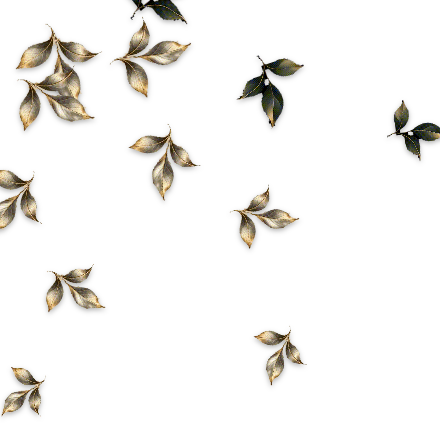
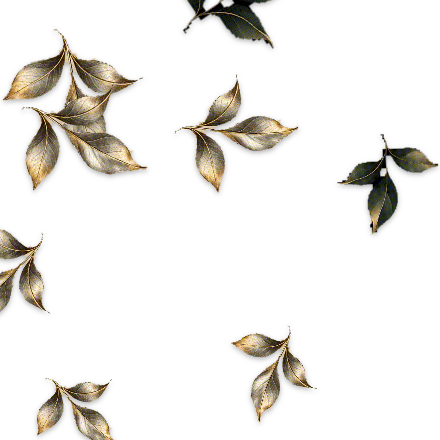
Larger leaves on branches, frame corners, garlands, footer vine and falling decoration

diff --git a/src/components/DecorFrame.jsx b/src/components/DecorFrame.jsx
@@ -14,10 +14,10 @@ function framePath(w, h, radii) {
 
 // A small leafy sprig drawn for the top-left corner; the other corners mirror it. Leaves unfurl one after another.
 const BLOOMS = [
-  { x: 8, y: 33, s: 22, v: 'gold', r: -40 },
-  { x: 14, y: 21, s: 26, v: 'olive', r: -5 },
-  { x: 26, y: 12, s: 24, v: 'gold', r: 35 },
-  { x: 40, y: 8, s: 20, v: 'olive', r: 65 },
+  { x: 8, y: 33, s: 32, v: 'gold', r: -40 },
+  { x: 14, y: 21, s: 38, v: 'olive', r: -5 },
+  { x: 26, y: 12, s: 34, v: 'gold', r: 35 },
+  { x: 40, y: 8, s: 30, v: 'olive', r: 65 },
 ];
 const MIRROR = { tl: 'none', tr: 'scaleX(-1)', br: 'scale(-1,-1)', bl: 'scaleY(-1)' };
 
@@ -119,7 +119,7 @@ export default function DecorFrame({ inset = 12, radii = [2, 2, 2, 2], corners =
       {big && corners.filter((c) => !flora.includes(c) && !floraSmall.includes(c)).map((c) => <Sprig key={`${c}-${replayKey}`} corner={c} size={size} offset={-6} on={on} delay={delay + 1.1} reduce={reduce} />)}
       {big && spots.slice(0, 26).map((p, i) => (
         <span key={`g${i}`} className="decor-garland" style={{ left: p.x, top: p.y, '--d': `${delay + 1.5 + i * 0.045}s` }}>
-          <span>{i % 3 === 2 ? <i className="decor-garland__dot" /> : <GarlandBlossom index={i} size={i % 2 ? 15 : 19} />}</span>
+          <span>{i % 3 === 2 ? <i className="decor-garland__dot" /> : <GarlandBlossom index={i} size={i % 2 ? 24 : 30} />}</span>
         </span>
       ))}
       {big && floraSmall.map((c) => <Flora key={`s${c}`} corner={c} size={floraSize * 0.64} offset={floraOffset} on={on} delay={delay + 1.35} />)}

diff --git a/src/components/Footer.jsx b/src/components/Footer.jsx
@@ -14,14 +14,14 @@ function Vine() {
       {VINE.map((l, i) => (
         <g key={i} transform={`translate(${l.x} ${l.up ? 14 : 30})`}>
           <motion.g style={{ transformBox: 'fill-box', transformOrigin: 'center' }} initial={{ scale: 0, rotate: -90 }} whileInView={{ scale: 1, rotate: 0 }} viewport={{ once: true, margin: '-40px' }} transition={{ type: 'spring', stiffness: 130, damping: 11, delay: 0.5 + i * 0.13 }}>
-            <Blossom variant={i % 2 ? 'gold' : 'olive'} size={22} x={-11} y={-11} />
+            <Blossom variant={i % 2 ? 'gold' : 'olive'} size={34} x={-17} y={-17} />
           </motion.g>
         </g>
       ))}
       {VINE.filter((_, i) => i % 2 === 1).map((l, i) => (
         <g key={`b${i}`} transform={`translate(${l.x + 40} ${l.up ? 22 : 24})`}>
           <motion.g style={{ transformBox: 'fill-box', transformOrigin: 'center' }} initial={{ scale: 0, rotate: -60 }} whileInView={{ scale: 1, rotate: 0 }} viewport={{ once: true, margin: '-40px' }} transition={{ type: 'spring', stiffness: 130, damping: 10, delay: 1.1 + i * 0.2 }}>
-            <g className="flora__breath" style={{ animationDelay: `${i * 0.4}s` }}><Blossom variant={BLOSSOM_VARIANTS[i % 5]} size={26} x={-13} y={-13} /></g>
+            <g className="flora__breath" style={{ animationDelay: `${i * 0.4}s` }}><Blossom variant={BLOSSOM_VARIANTS[i % 5]} size={36} x={-18} y={-18} /></g>
           </motion.g>
         </g>
       ))}

diff --git a/src/components/Ambient.jsx b/src/components/Ambient.jsx
@@ -56,7 +56,7 @@ export default function SectionDecor({ tone = 'light' }) {
           <Flora corner="bl" size={150} offset={-34} on={live} delay={0.4} className="flora--edge flora--edge-br" />
           {live && <Petals />}
           {live && FALL.filter((_, i) => i % 3 !== 2).map((l, i) => (
-            <Blossom key={i} className="ambient__leaf ambient__flower" variant={i % 2 ? 'gold' : 'olive'} size={l.s + 14} style={{ left: `${l.x}%`, '--dx': `${l.dx}px`, '--r': `${l.r}deg`, animationDuration: `${l.d}s`, animationDelay: `${l.t}s` }} />
+            <Blossom key={i} className="ambient__leaf ambient__flower" variant={i % 2 ? 'gold' : 'olive'} size={l.s + 30} style={{ left: `${l.x}%`, '--dx': `${l.dx}px`, '--r': `${l.r}deg`, animationDuration: `${l.d}s`, animationDelay: `${l.t}s` }} />
           ))}
         </>
       ) : (

diff --git a/src/components/Flora.jsx b/src/components/Flora.jsx
@@ -2,7 +2,7 @@
 // baked from the vector source in FloraArt.jsx so the browser only moves flat pictures (cheap) instead of painting hundreds of shapes.
 const MIRROR = { tl: 'none', tr: 'scaleX(-1)', br: 'scale(-1,-1)', bl: 'scaleY(-1)' };
 const ORIGIN = { tl: '0 0', tr: '100% 0', br: '100% 100%', bl: '0 100%' };
-const V = '7'; // bump when the baked art changes (the server caches images for a year)
+const V = '8'; // bump when the baked art changes (the server caches images for a year)
 const LAYERS = [[`/decor/flora-1.png?v=${V}`, 0], [`/decor/flora-2.png?v=${V}`, 0.5], [`/decor/flora-3.png?v=${V}`, 1]];
 
 /** A bouquet for a frame or section corner. Layers bloom in turn (CSS) once `on`, then the bouquet sways. */

diff --git a/src/cms/sections/marquee.jsx b/src/cms/sections/marquee.jsx
@@ -11,7 +11,7 @@ export function Marquee({ base, props: p }) {
   const run = (copy) => items.map((it, i) => (
     <Fragment key={`${copy}-${i}`}>
       <span className="ribbon__item">{copy === 0 ? <Txt path={`${base}.items.${i}.text`} /> : it.text}</span>
-      <Blossom className="ribbon__star" variant={BLOSSOM_VARIANTS[i % 5]} size={30} />
+      <Blossom className="ribbon__star" variant={BLOSSOM_VARIANTS[i % 5]} size={42} />
     </Fragment>
   ));
   return (
